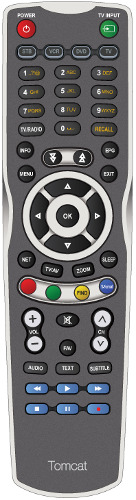
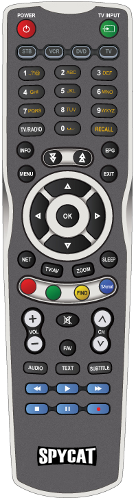
delete oem tomcat

Changed region(s): [[0.2647, 0.87, 0.7353, 0.96]]

diff --git a/BoxBranding/RcModel.py b/BoxBranding/RcModel.py
@@ -152,12 +152,10 @@ class RcModel:
 			remotefolder = 'ixussone'
 		elif boxtype in ('ixusszero'):
 			remotefolder = 'ixusszero'
-		elif boxtype in ('tomcat'):
-			remotefolder = 'xcore1'
 		elif boxtype in ('bcm7358', 'vp7358ci'):
 			remotefolder = 'xcore2'
 		elif boxtype in ('spycat'):
-			remotefolder = 'xcore3'
+			remotefolder = 'xcore1'
 		elif machinebuild == 'cube':
 			remotefolder = 'cube'
 		elif machinebuild.startswith('ebox'):
